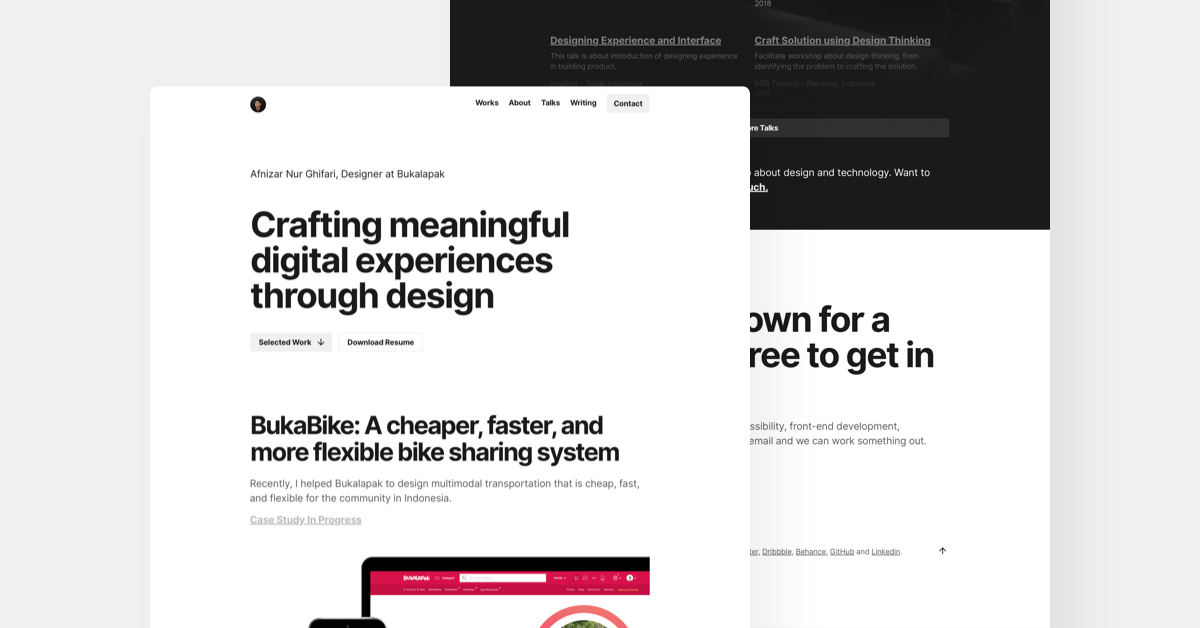
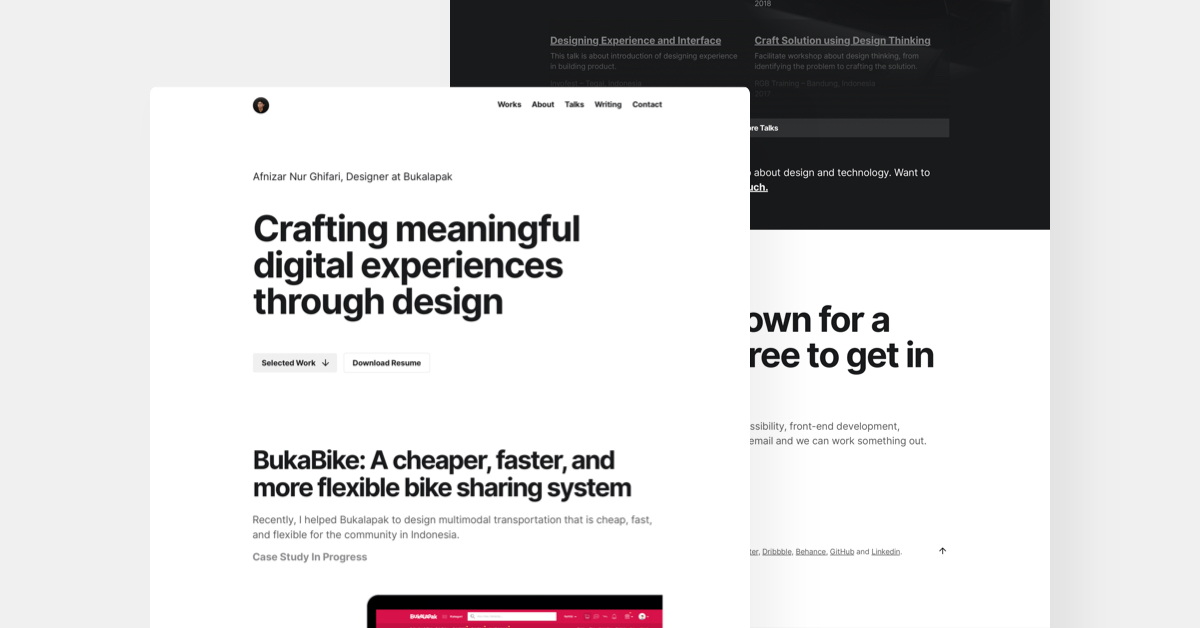
refactor: Update post & modified some assets
I updating assets header and website thumbnail. Another things I also fix #10

diff --git a/src/pages/writing/tags.js b/src/pages/writing/tags.js
@@ -65,7 +65,7 @@ const TagsPage = ({
                     }}
                   >
                     <TagButton
-                      to={`/tags/${kebabCase(tag.fieldValue)}/`}
+                      to={`/writing/tags/${kebabCase(tag.fieldValue)}/`}
                       key={tag.fieldValue}
                     >
                       {tag.fieldValue} ({tag.totalCount})

diff --git a/src/templates/Tags.js b/src/templates/Tags.js
@@ -52,7 +52,7 @@ const Tags = ({ pageContext, data }) => {
     <>
       <Helmet>
         <title>
-          Tags {tag} | {title}
+          Tags "{tag}" | {title}
         </title>
         <meta property="og:site_name" content={title} />
         <meta property="og:title" content={"Tags " + tag + " | " + title} />

diff --git a/src/pages/writing/new-side-project-desain-link/index.md b/src/pages/writing/new-side-project-desain-link/index.md
@@ -3,6 +3,7 @@ title: New Side Project desain.link
 featuredimage: ./new-side-project-desain-link.jpg
 date: 2020-04-13
 description: Introducing my newest side project that I currently worked on.
-category: Project
+category: Side Project
 tags: ["side project", "web design", "design", "bookmark"]
 ---
+
